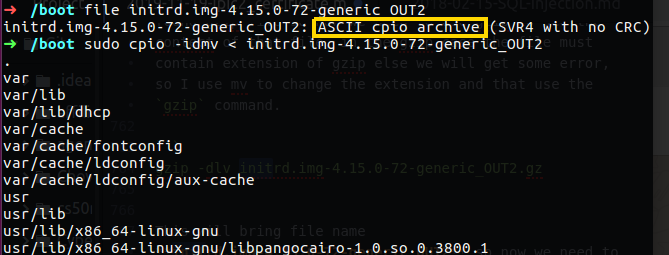
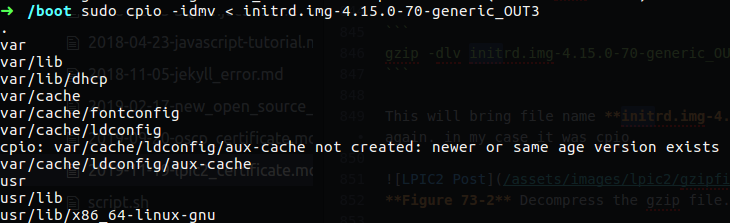
update

diff --git a/_posts/2019-11-19-lpic2_certificate.md b/_posts/2019-11-19-lpic2_certificate.md
@@ -786,7 +786,7 @@ You can find the initrd under boot folder, usually every kernel have it's own in
 ![LPIC2 Post](/assets/images/lpic2/initrdfiles.png)
 **Figure 68** initrd files.
 
-**Please note**:At boot time, the boot loader loads the kernel and the initramfs image into memory and starts the kernel. The kernel checks for the presence of the initramfs and, if found, mounts it as / and runs /init. The init program is typically a shell script. Note that the boot process takes longer, possibly significantly longer, if an initramfs is used.
+**Please note**:At boot time, the boot loader loads the kernel and the initramfs image into memory and starts the kernel. The kernel checks for the presence of the initramfs and, if found, mounts it as `/` and runs `/init`. The init program is typically a shell script. Note that the boot process takes longer, possibly significantly longer, if an initramfs is used.
 
 Let's take a closer look at this file, it will help you understand more about this file, so I'm run the command `file` on one of the init file to check what is the type of that file, in that way I will be able to find out how to read that file.
 
@@ -802,7 +802,7 @@ As you can see the type of this file is an archive and it's **cpio** file which 
 
 The option **-i** stand for extract files from an archive and the **-d** create leading directories where needed, the **-m** retain previous file modification times when creating files and **-v** used for verbose.
 
-In our case we can see the folder that `cpio` extract to and this can give us a clue about the init file, but if you notice, at the end of the output was print out 56 blocks, and every block is 512 bytes so we view right now in the first 33280 bytes of this file, but as you saw before, this file contain 54M which are more bigger then 33K we saw, so were is the rest of that file?
+In our case we can see the folder that `cpio` extract to and this can give us a clue about the init file, but if you notice, at the end of the output was print out 56 blocks, and every block is 512 bytes so we view right now in the first 33280 bytes of this file, but as you saw before, this file contain 54M which are more bigger then 33K, so were is the rest of that file?
 
 This situation let's us know that not all the file was open by the cpio, and the rest of that can be something else or new cpio file because in the cpio there is an header that he knows the start and finish of file, so we need the rest of the file, to achieve that goal we can use `dd` to take fixed size for that file and output it to use file.
 
@@ -810,7 +810,7 @@ This situation let's us know that not all the file was open by the cpio, and the
 dd if=initrd.img-4.15.0-70-generic of=initrd.img-4.15.0-70-generic_OUT bs=512 skip=56
 ```
 
-In this command I specified the input file which is the **initrd.img-4.15.0-70-generic** and the output file going to be **initrd.img-4.15.0-70-generic_OUT**, the block size are 512 bytes and we want to skip the first 56 blocks.
+In this command I specified the input file which is the **initrd.img-4.15.0-70-generic** and the output file going to be **initrd.img-4.15.0-70-generic_OUT**, the block size are 512 bytes and we want to skip the first 56 blocks which mean the rest of that file will be taken.
 
 ![LPIC2 Post](/assets/images/lpic2/dd.png)
 **Figure 71** Create new file using dd.
@@ -825,13 +825,36 @@ So this also cpio file, I used cpio to extract that file and found other files t
 ![LPIC2 Post](/assets/images/lpic2/secondfile.png)
 **Figure 73** Extract again using cpio.
 
-Now we need to repeat the process again with `dd` and after that using `file` command. You can see that we found gzip file so now we need to use gzip to see the contect of that file, in the gzip case the file must contain extension of gzip else we will get some error, so I use mv to change the extension and that use the `gzip` command.
+Now we need to repeat the process again with `dd` and after that using `file` command.
+```
+sudo dd if=initrd.img-4.15.0-70-generic_OUT of=initrd.img-4.15.0-70-generic_OUT2 bs=512 skip=5784
+```
+
+![LPIC2 Post](/assets/images/lpic2/thirdfile.png)
+**Figure 73-2** Checking the new file with `file` command.
+
+You can see that we found gzip file so now we need to use gzip to see the contect of that file, in the gzip case the file must contain extension of gzip else we will get some error, so I use mv to change the extension and then use the `gzip` command.
+
+So for change the extention:
+```
+sudo mv initrd.img-4.15.0-70-generic_OUT2 initrd.img-4.15.0-70-generic_OUT3.gz
+```
+
+And now extract the gzip file:
 
 ```
-gzip -dlv initrd.img-4.15.0-72-generic_OUT2.gz
+gzip -dlv initrd.img-4.15.0-70-generic_OUT3.gz
 ```
 
-This will bring file name **initrd.img-4.15.0-72-generic_OUT2** so now we need to check that file type again. in my case it was cpio. so I decompress it.
+This will bring file name **initrd.img-4.15.0-70-generic_OUT3** so now we need to check that file type again. in my case it was cpio.
+
+![LPIC2 Post](/assets/images/lpic2/gzipfile.png)
+**Figure 73-2** Decompress the gzip file.
+
+![LPIC2 Post](/assets/images/lpic2/cpioagain.png)
+**Figure 73-3** Checking the file type again.
+
+So I decompress it.
 
 ![LPIC2 Post](/assets/images/lpic2/cpiolastfile.png)
 **Figure 74** Extract again using cpio.
@@ -841,9 +864,11 @@ To see if this is the end of our search of initrd we can can use `dd` and if he 
 ![LPIC2 Post](/assets/images/lpic2/ddagain.png)
 **Figure 75** This is it.
 
-**Please nore**: the kernel configuration parameters can be found on the config file, this file is also on the boot folder, so as you may remeber you can change some parameter by `make menuconfig` but if you remember later on about some setting that you need you can add it in that file before install the kernel. Also remember that the config name is usual as follow `config-<kernel version>`.
+**Please nore**: the kernel configuration parameters can be found on the config file, this file is also on the boot folder, so as you need to remember that you can change some parameter by `make menuconfig` but if you forget  about some setting that you need you can add it in that file before install the kernel. Also remember that the config name is usual as follow `config-<kernel version>`.
 
 So far we saw that on GRUB we have two files, the kernel file and the init file, after we done all the compiling stuff we can find the kernel and it's documentation under the `/usr/src/linux`/`/usr/src/linux/documentation`, we also can find there the drives that going to be in used on our system and the configurations files that related to this linux kernel.
+
+
 
 ### Challenge
 
@@ -853,6 +878,7 @@ So far we saw that on GRUB we have two files, the kernel file and the init file,
 
 To solve this issue I will go with you step by step how to make new minimal linux kernel, I am going to use the minimal linux live project that was written by davidov.i@gmail.com, you can find the minimal linux document at the following URL:[Minimal Linux Tutorial](http://minimal.linux-bg.org/the_dao_of_minimal_linux_live.txt).
 
+For making initrd file we can use `mkinitrd` command (on RedHet and CentOS distro), if you use Ubuntu you will need to use `update-initramfs` or `mkinitramfs` commands, those command will create initrd file which we can move to our boot folder and update the GRUB to use it, so in case you find the initrd dummege or it accidentally deleted, you can use those command and create your new initrd file for booting the system normally.
 
 ### 1. Create minimal linux kernel.
 
